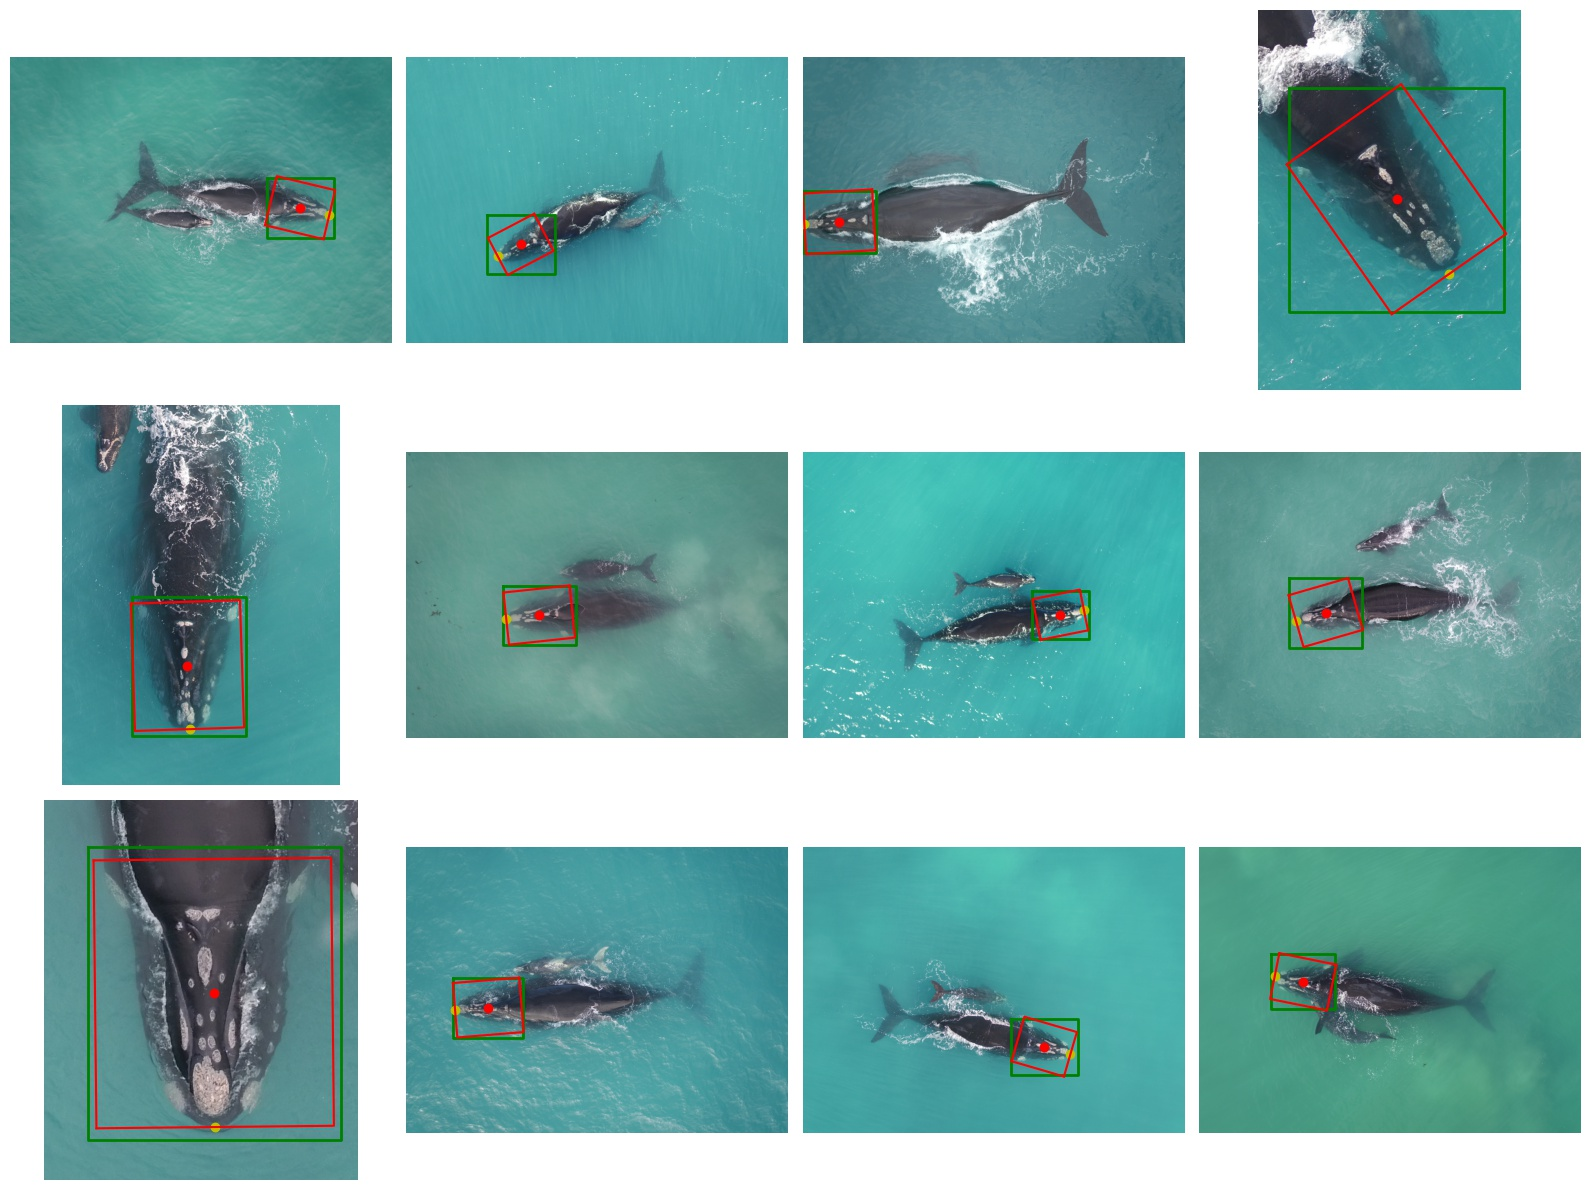
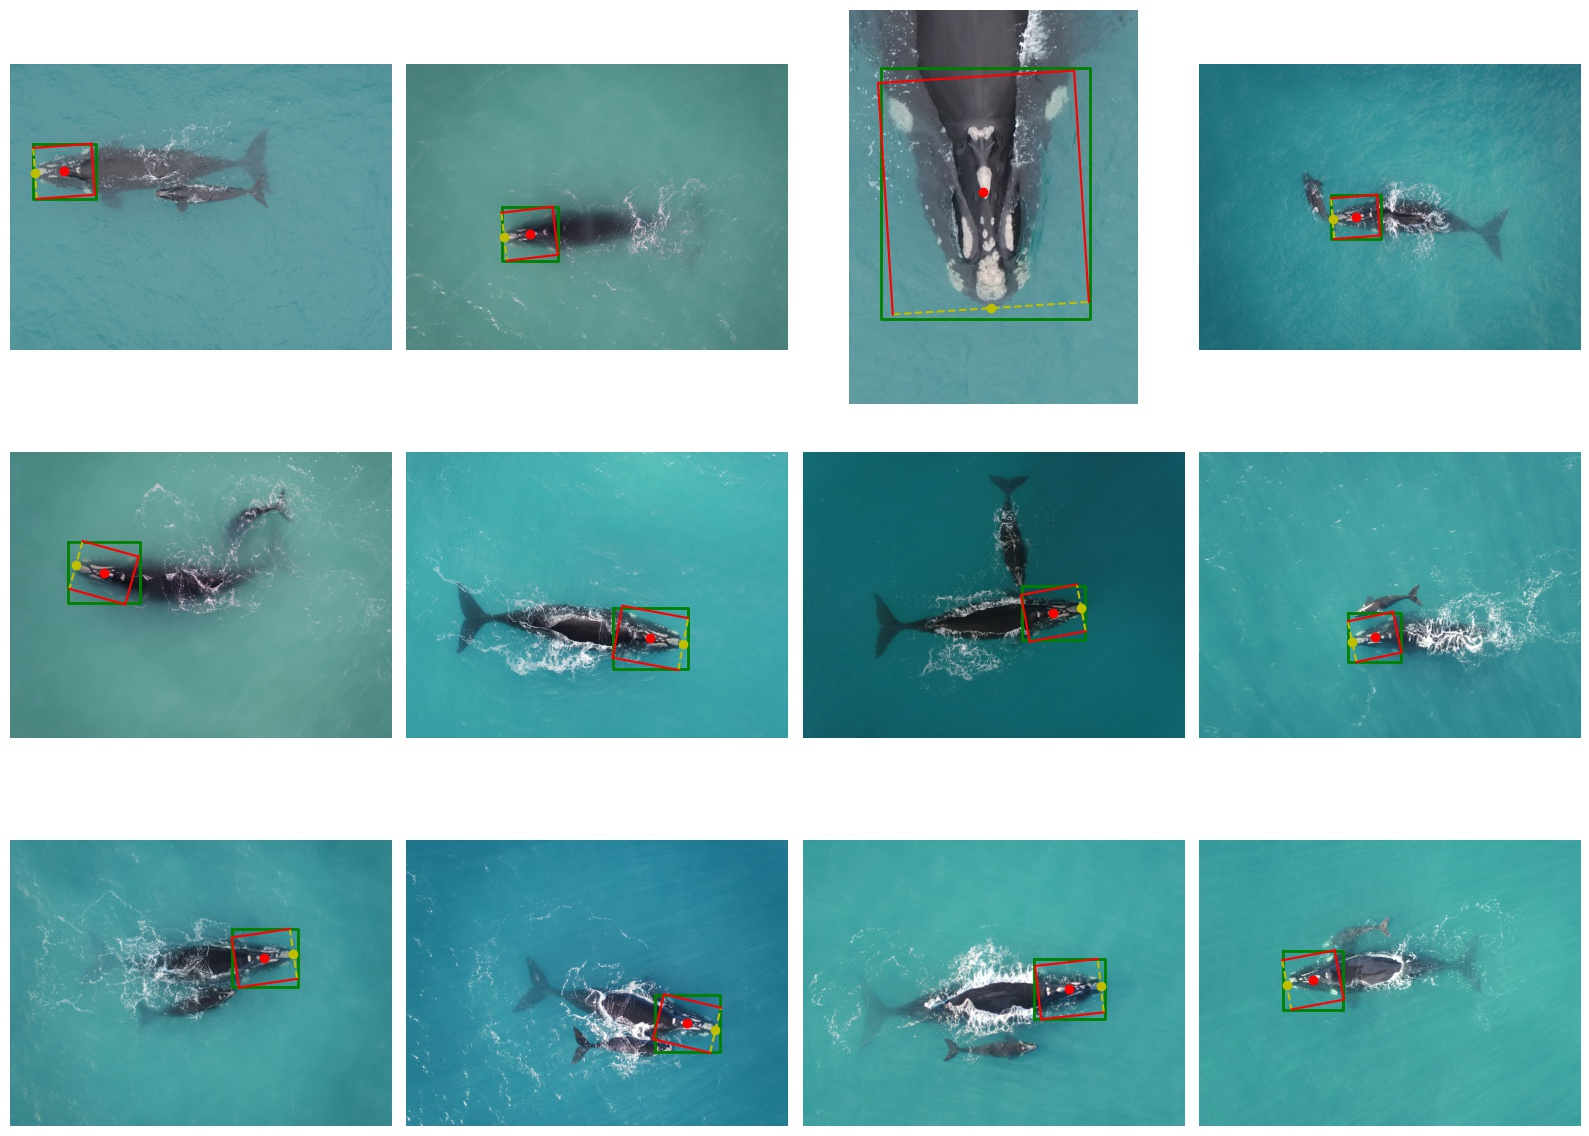
Update examples and readme

diff --git a/wbia_orientation/README.rst b/wbia_orientation/README.rst
@@ -4,7 +4,24 @@ Orientation detection results and evaluation
 
 Quantitative results
 ---------------------
-All wildlife cases are trained with the same model and the same training setup.
+All wildlife cases are trained with the same model and using the same training setup.
+
+The results vary from case to case.
+Good results are achieved on sea dragon heads, whale sharks, sea turtle heads, spotted dolphins
+and right whales where ground truth annotations are consistent.
+
+Detecting orientation on manta rays is challenging due to variety of
+viewpoints and poses of mantas underwater.
+More training data will likely to improve the accuracy.
+
+Results on hammerhead sharks are low due to noisy ground truth annotations where
+some images are annotated with the head as the front and other images are
+annotated with the tail as the front.
+These discrepancies affect the learning process and the model usually chooses a point
+in the middle of the body during optimization.
+Cleaning annotations will most likely improve performance
+dramatically as hammerhead sharks have a very distinct shape of the head.
+
 
 Accuracy
 ==========
@@ -75,7 +92,7 @@ Qualitative results
 Sea Dragon heads
 ================
 
-Green - an axis-aligned box, Red - a detected object-aligned box. Yellow dot indicates a detected front of the animal.
+Green is an axis-aligned box, Red is a detected object-aligned box. Yellow side indicates a detected front of the animal.
 
 .. figure:: ../examples/seadragon_bboxes_1.jpg
    :align: center
@@ -88,7 +105,7 @@ Original orientation vs Detected orientation:
 Whale Shark
 ================
 
-Green - an axis-aligned box, Red - a detected object-aligned box. Yellow dot indicates a detected front of the animal.
+Green is an axis-aligned box, Red is a detected object-aligned box. Yellow side indicates a detected front of the animal.
 
 .. figure:: ../examples/whaleshark_bboxes_1.jpg
    :align: center
@@ -102,7 +119,7 @@ Original orientation vs Detected orientation:
 Sea turtle heads
 =================
 
-Green - an axis-aligned box, Red - a detected object-aligned box. Yellow dot indicates a detected front of the animal.
+Green is an axis-aligned box, Red is a detected object-aligned box. Yellow side indicates a detected front of the animal.
 
 .. figure:: ../examples/seaturtle_bboxes_1.jpg
    :align: center
@@ -115,7 +132,7 @@ Original orientation vs Detected orientation:
 Spotted Dolphin
 ================
 
-Green - an axis-aligned box, Red - a detected object-aligned box. Yellow dot indicates a detected front of the animal.
+Green is an axis-aligned box, Red is a detected object-aligned box. Yellow side indicates a detected front of the animal.
 
 .. figure:: ../examples/spotteddolphin_bboxes_1.jpg
    :align: center
@@ -128,7 +145,7 @@ Original orientation vs Detected orientation:
 Right Whale
 ================
 
-Green - an axis-aligned box, Red - a detected object-aligned box. Yellow dot indicates a detected front of the animal.
+Green is an axis-aligned box, Red is a detected object-aligned box. Yellow side indicates a detected front of the animal.
 
 .. figure:: ../examples/rightwhale_bboxes_1.jpg
    :align: center
@@ -141,7 +158,7 @@ Original orientation vs Detected orientation:
 Manta Ray
 ==============
 
-Green - an axis-aligned box, Red - a detected object-aligned box. Yellow dot indicates a detected front of the animal.
+Green is an axis-aligned box, Red is a detected object-aligned box. Yellow side indicates a detected front of the animal.
 
 .. figure:: ../examples/mantaray_bboxes_1.jpg
    :align: center
@@ -154,7 +171,7 @@ Original orientation vs Detected orientation:
 Hammerhead Shark
 ================
 
-Green - an axis-aligned box, Red - a detected object-aligned box. Yellow dot indicates a detected front of the animal.
+Green is an axis-aligned box, Red is a detected object-aligned box. Yellow side indicates a detected front of the animal.
 
 .. figure:: ../examples/hammerhead_bboxes_1.jpg
    :align: center
